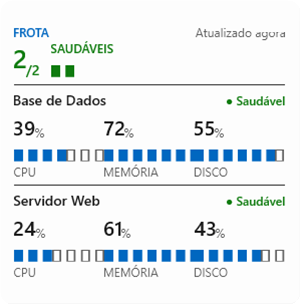
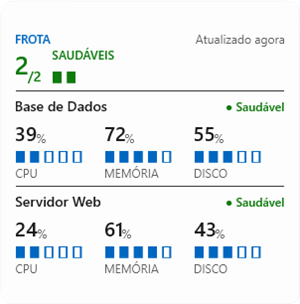
fix: draw the widget meter as one text block so it cannot be truncated
The light-theme contrast fix took three attempts on the real board, and
the first two failed the same way: the host silently clipped the track.
Ten glyph segments rendered as about six. Five segments split across auto
columns were squeezed and cut with an ellipsis. Both passed their tests,
because the tests asserted string lengths rather than what the host draws.

The track is now a single TextBlock holding the whole string, so there
are no columns for the host to squeeze and nothing to truncate. That
costs one colour role for the whole track, so filled and empty are told
apart by shape - solid against outlined - which was already the primary
differentiator and is the one that survives high contrast and colour
vision deficiency. Five segments, measured against the metric column at
the real glyph pitch.

The fleet bar keeps per-health colours, is bounded at eight ticks, and is
omitted rather than truncated above that: the hero fraction and the large
footer still state the totals, so nothing is hidden.

Verified on the user's own Widgets board in all four size and theme
combinations: every declared track draws exactly five segments, lit count
matches the magnitude, and no track is truncated. A filled tick reads
5.58:1 against the card in light, where the old meter read 1.25:1, and
6.39:1 in dark.

The picker screenshots are recaptured from this build. An earlier pair of
attempts had to be discarded because a monitoring cycle had overwritten
[…]

Changed region(s): [[0.03, 0.0888, 0.96, 0.6809], [0.03, 0.7105, 0.96, 0.9178], [0.63, 0.0888, 0.96, 0.1776]]

diff --git a/tests/ServerMonitor.WidgetProvider.Tests/Rendering/WidgetCardRendererTests.cs b/tests/ServerMonitor.WidgetProvider.Tests/Rendering/WidgetCardRendererTests.cs
@@ -358,13 +358,22 @@ public sealed class WidgetCardRendererTests
         Assert.Contains(En.Offline.ToUpperInvariant(), json);
     }
 
-    // ---- M13-QA-6: the meter is glyph runs with FOREGROUND colours, not styled container backgrounds ----
+    // ---- M13-QA-6: the meter is ONE TextBlock of glyphs in a FOREGROUND colour role, not styled
+    // container backgrounds and not per-run columns ----
 
     private const string TickFilled = "\u25AE";
     private const string TickEmpty = "\u25AF";
 
-    private static bool IsTicks(string text, string glyph) =>
-        text.Length > 0 && text.All(c => c.ToString() == glyph);
+    // Any TextBlock made only of tick glyphs, filled and empty mixed.
+    private static bool IsTrack(string text) =>
+        text.Length > 0 && text.All(c => c.ToString() == TickFilled || c.ToString() == TickEmpty);
+
+    private static int CountFilled(string track) => track.Count(c => c.ToString() == TickFilled);
+    private static int CountEmpty(string track) => track.Count(c => c.ToString() == TickEmpty);
+
+    // The per-metric meter tracks: one TextBlock each, mixed glyphs, in the accent role.
+    private static List<string> MeterTracks(JsonElement root) =>
+        TickRuns(root).Where(r => r.Color == "accent" && IsTrack(r.Text)).Select(r => r.Text).ToList();
 
     // Every TextBlock made purely of tick glyphs, with its colour role and subtlety.
     private static List<(string Text, string? Color, bool Subtle)> TickRuns(JsonElement el)
@@ -379,7 +388,7 @@ public sealed class WidgetCardRendererTests
             {
                 if (e.TryGetProperty("type", out var t) && t.GetString() == "TextBlock"
                     && e.TryGetProperty("text", out var tx) && tx.GetString() is { Length: > 0 } text
-                    && (IsTicks(text, TickFilled) || IsTicks(text, TickEmpty)))
+                    && IsTrack(text))
                 {
                     var color = e.TryGetProperty("color", out var c) ? c.GetString() : null;
                     var subtle = e.TryGetProperty("isSubtle", out var sub) && sub.GetBoolean();
@@ -418,63 +427,55 @@ public sealed class WidgetCardRendererTests
         // A critical server must NOT tint its metric meters red: health lives only on the chip and on the
         // fleet bar, which is health-coloured by design.
         var root = AssertValidCard(Render(Read(Server("db", WidgetHealth.Critical)), WidgetSizeHint.Medium).TemplateJson);
-        var runs = TickRuns(root);
 
-        var filledMetric = runs.Where(r => IsTicks(r.Text, TickFilled) && r.Color == "accent").ToList();
-        Assert.Equal(3, filledMetric.Count);
+        Assert.Equal(3, MeterTracks(root).Count);   // three metrics, all in the neutral accent role
 
         // The only health-coloured tick run on the card is the fleet bar.
-        var healthColoured = runs.Where(r => r.Color is "attention" or "warning" or "good").ToList();
+        var healthColoured = TickRuns(root).Where(r => r.Color is "attention" or "warning" or "good").ToList();
         Assert.Single(healthColoured);
         Assert.Equal("attention", healthColoured[0].Color);
     }
 
     [Fact]
-    public void Empty_track_is_outlined_and_subtle_so_it_does_not_rely_on_colour_alone()
+    public void Filled_and_empty_are_told_apart_by_shape_not_by_colour()
     {
-        var root = AssertValidCard(Render(Read(Server("db", WidgetHealth.Healthy, cpu: 30, mem: 30, disk: 30)),
+        // The track is ONE block in ONE colour role, so the states cannot rely on colour: a filled tick is
+        // a solid glyph and an empty one is outlined. That difference survives High Contrast and colour
+        // vision deficiency, and it is what makes a single-colour track legible.
+        var root = AssertValidCard(Render(Read(Server("db", WidgetHealth.Healthy, cpu: 60, mem: 60, disk: 60)),
             WidgetSizeHint.Medium).TemplateJson);
-        var empty = TickRuns(root).Where(r => IsTicks(r.Text, TickEmpty)).ToList();
 
-        Assert.NotEmpty(empty);
-        foreach (var run in empty)
+        var tracks = MeterTracks(root);
+        Assert.Equal(3, tracks.Count);
+        foreach (var track in tracks)
         {
-            Assert.True(run.Subtle);   // muted...
-            Assert.Null(run.Color);    // ...in the default foreground, never a health or accent role
+            Assert.Equal(3, CountFilled(track));
+            Assert.Equal(MeasuredMeterSegments - 3, CountEmpty(track));
+            Assert.NotEqual(TickFilled[0], TickEmpty[0]);   // the two states are different glyphs
         }
     }
 
     [Theory]
     [InlineData(0, 0)]
     [InlineData(1, 1)]     // any non-zero magnitude lights at least one tick
-    [InlineData(30, 3)]
-    [InlineData(55, 6)]    // ceil
-    [InlineData(100, 10)]
+    [InlineData(20, 1)]
+    [InlineData(30, 2)]    // ceil
+    [InlineData(60, 3)]
+    [InlineData(100, 5)]
     public void Filled_tick_count_tracks_magnitude(int percent, int expectedFilled)
     {
         var root = AssertValidCard(Render(Read(
             Server("db", WidgetHealth.Healthy, cpu: percent, mem: percent, disk: percent)),
             WidgetSizeHint.Medium).TemplateJson);
 
-        var runs = TickRuns(root);
-        var filled = runs.Where(r => r.Color == "accent").ToList();
-        var empty = runs.Where(r => IsTicks(r.Text, TickEmpty)).ToList();
-
-        if (expectedFilled == 0)
+        var tracks = MeterTracks(root);
+        Assert.Equal(3, tracks.Count);
+        foreach (var track in tracks)
         {
-            Assert.Empty(filled);
-        }
-        else
-        {
-            Assert.Equal(3, filled.Count);
-            Assert.All(filled, r => Assert.Equal(expectedFilled, r.Text.Length));
-        }
-
-        // Filled + empty always spans the whole track: the bar never shrinks.
-        if (expectedFilled < 10)
-        {
-            Assert.Equal(3, empty.Count);
-            Assert.All(empty, r => Assert.Equal(10 - expectedFilled, r.Text.Length));
+            Assert.Equal(expectedFilled, CountFilled(track));
+            Assert.Equal(MeasuredMeterSegments - expectedFilled, CountEmpty(track));
+            // The declared track is always drawn whole - never shortened, never truncated.
+            Assert.Equal(MeasuredMeterSegments, track.Length);
         }
     }
 
@@ -485,11 +486,87 @@ public sealed class WidgetCardRendererTests
             Server("db", WidgetHealth.Healthy, cpu: null, mem: null, disk: null)),
             WidgetSizeHint.Medium).TemplateJson);
 
-        var runs = TickRuns(root);
-        Assert.DoesNotContain(runs, r => r.Color == "accent");
-        Assert.Equal(3, runs.Count(r => IsTicks(r.Text, TickEmpty) && r.Text.Length == 10));
+        var tracks = MeterTracks(root);
+        Assert.Equal(3, tracks.Count);
+        // An unknown metric draws the full track with nothing lit - it never invents a zero-length bar.
+        Assert.All(tracks, t => Assert.Equal(MeasuredMeterSegments, t.Length));
+        Assert.All(tracks, t => Assert.Equal(0, CountFilled(t)));
         // And the number itself is the unknown placeholder, not "0".
         Assert.Contains(En.MetricUnknown, AllTexts(root));
+    }
+
+    // ---- M13-QA-6: INTEGRITY. A legible but truncated instrument is worse than an illegible one - it
+    // answers confidently and wrongly. These capacities were MEASURED on the real board and are written as
+    // literals on purpose. It took three attempts to get here: 10 glyph segments were clipped to about 6;
+    // 5 segments split across auto columns were cut with an ellipsis; only one TextBlock holding the whole
+    // track survives, because there is then nothing for the host to squeeze. Every earlier attempt passed
+    // its tests, because the tests checked string lengths rather than what the host draws. ----
+
+    public const int MeasuredMeterSegments = 5;   // fits a ~90px metric column at the measured ~13px pitch
+    public const int MeasuredMaxFleetTicks = 8;   // fits the hero row beside the fraction and its label
+
+    [Theory]
+    [InlineData(0)]
+    [InlineData(1)]
+    [InlineData(37)]
+    [InlineData(99)]
+    [InlineData(100)]
+    public void Meter_always_draws_every_segment_it_declares(int percent)
+    {
+        foreach (var size in new[] { WidgetSizeHint.Medium, WidgetSizeHint.Large })
+        {
+            var root = AssertValidCard(Render(Read(
+                Server("db", WidgetHealth.Healthy, cpu: percent, mem: percent, disk: percent)), size).TemplateJson);
+
+            // Per metric cell: filled + empty must total the declared track, exactly. Three metrics per row.
+            var tracks = MeterTracks(root);
+            var rows = ServerBlocks(root).Count;
+            Assert.Equal(3 * rows, tracks.Count);
+            Assert.All(tracks, t => Assert.Equal(MeasuredMeterSegments, t.Length));
+        }
+    }
+
+    [Fact]
+    public void Meter_segment_count_matches_the_capacity_measured_on_the_board()
+    {
+        // The production constant must equal what was measured, not the other way round.
+        var root = AssertValidCard(Render(Read(Server("db", WidgetHealth.Healthy, cpu: 0, mem: 0, disk: 0)),
+            WidgetSizeHint.Medium).TemplateJson);
+        var tracks = MeterTracks(root);
+        Assert.Equal(3, tracks.Count);
+        Assert.All(tracks, t => Assert.Equal(MeasuredMeterSegments, t.Length));
+        Assert.All(tracks, t => Assert.Equal(0, CountFilled(t)));
+    }
+
+    [Theory]
+    [InlineData(1)]
+    [InlineData(4)]
+    [InlineData(8)]
+    public void Fleet_bar_is_drawn_within_the_tick_budget(int servers)
+    {
+        var fleet = Enumerable.Range(0, servers).Select(i => Server($"s{i:D2}", WidgetHealth.Healthy)).ToArray();
+        var root = AssertValidCard(Render(Read(fleet), WidgetSizeHint.Small).TemplateJson);
+
+        // Small renders no rows, so every tick run belongs to the fleet bar.
+        Assert.Equal(servers, TickRuns(root).Sum(r => r.Text.Length));
+    }
+
+    [Theory]
+    [InlineData(9)]
+    [InlineData(40)]
+    public void Fleet_bar_is_omitted_rather_than_truncated_above_the_budget(int servers)
+    {
+        var fleet = Enumerable.Range(0, servers).Select(i => Server($"s{i:D2}", WidgetHealth.Healthy)).ToArray();
+        var json = Render(Read(fleet), WidgetSizeHint.Small).TemplateJson;
+        var root = AssertValidCard(json);
+
+        Assert.True(servers > MeasuredMaxFleetTicks);
+        // No partial bar - a bar showing 8 of 40 would be a confident lie about the fleet.
+        Assert.Empty(TickRuns(root));
+        // ...and no JSON null left where it used to be.
+        Assert.DoesNotContain("null", json.Replace("\"header\":null", string.Empty), StringComparison.Ordinal);
+        // The hero still states the whole truth.
+        Assert.Contains($"{servers}", AllTexts(root));
     }
 
     [Fact]

diff --git a/src/ServerMonitor.WidgetProvider/Rendering/WidgetCardRenderer.cs b/src/ServerMonitor.WidgetProvider/Rendering/WidgetCardRenderer.cs
@@ -16,8 +16,8 @@ public sealed record WidgetCard(string TemplateJson, string DataJson);
 /// language (Fable design, refined against the real host): a caps accent kicker, an oversized numeric hero
 /// with a small trailing unit, and full-bleed segmented tick meters — colour used only for meaning, all
 /// top-aligned. Uses ONLY widget-supported elements (<c>TextBlock</c>, <c>ColumnSet</c>/<c>Column</c>,
-/// <c>Container</c>) plus container <c>style</c> backgrounds (with fixed-pixel gap columns) for the meters —
-/// no images/HTML/SVG. <c>"header": null</c> lets the composition own the top region (that strip is not
+/// <c>Container</c>) - the meters are TextBlock GLYPH runs, not styled container backgrounds, because only
+/// foreground colours resolve usefully per theme in the host's light config (M13-QA-6) - no images/HTML/SVG. <c>"header": null</c> lets the composition own the top region (that strip is not
 /// clickable, so the body carries the <c>selectAction</c> deep-links). Health is always a text label AND a
 /// colour (§18); the accent role is used ONLY for the fleet kicker (never for health, §4) - and note that
 /// Adaptive Cards "accent" is an ENUM the host resolves to the SYSTEM accent, not our brand #1846E1, so the
@@ -35,7 +35,19 @@ public static class WidgetCardRenderer
     };
 
     private const string Dot = "●";           // status glyph
-    private const int MeterSegments = 10;      // ticks per metric meter
+    // MEASURED on the real board, not chosen: a Default-size tick glyph has a ~13px advance and a metric
+    // column on the 300px-wide card is ~90px, so only ~6 ticks fit. The first glyph attempt declared 10 and
+    // the host silently clipped the rest, which is worse than the contrast bug it replaced - a truncated
+    // instrument answers confidently and wrongly (Prism). Five ticks need ~65px and leave real margin, and
+    // 20% per tick still reads as magnitude beside the exact percentage printed right above it.
+    // Changing this REQUIRES re-measuring on the board.
+    private const int MeterSegments = 5;       // ticks per metric meter - see note above
+
+    // The fleet bar draws one tick per server, so it is unbounded by nature. Same pitch, and it shares the
+    // hero row with the fraction and its label, so it gets a smaller budget. Above this the bar is omitted
+    // rather than truncated: the hero "N/N" and, on Large, the fleet-summary footer still state the whole
+    // truth, so nothing is hidden - only the glanceable form degrades, and it degrades honestly.
+    private const int MaxFleetTicks = 8;
 
     // M13-QA-6. The meters used Container BACKGROUND styles ("accent" filled, "emphasis" empty). Container
     // styles are the one part of the palette the host does not resolve usefully per theme: in its light
@@ -49,8 +61,8 @@ public static class WidgetCardRenderer
     // the distinction does not rest on colour alone and survives High Contrast.
     private const string TickFilled = "▮";      // black vertical rectangle
     private const string TickEmpty = "▯";       // white (outlined) vertical rectangle
-    private const string MeterSize = "Default";     // metric meter glyph size
-    private const string FleetSize = "Default";     // fleet-bar glyph size
+    // ONE size everywhere: pitch is then a single measured quantity rather than a per-size unknown.
+    private const string TickSize = "Default";
 
     public static WidgetCard Render(WidgetViewModel vm)
     {
@@ -88,15 +100,22 @@ public static class WidgetCardRenderer
     private static JsonArray SmallBody(WidgetViewModel vm)
     {
         var (number, unit) = SplitFraction(vm.HeroValue);
-        return new JsonArray
+        var body = new JsonArray
         {
             Text(vm.FleetKicker, size: "Small", weight: "Bolder", color: "accent"),
             NumberUnit(number, unit, "ExtraLarge", "Medium", vm.OverallHealthColor, unitSubtle: false),
             Text(vm.HeroLabel.ToUpperInvariant(), size: "Small", weight: "Bolder", color: vm.OverallHealthColor,
-                spacingNone: true),
-            FleetBar(vm, FleetSize),
-            Freshness(vm)
+                spacingNone: true)
         };
+
+        // Omitted above the tick budget - never added as a JSON null.
+        if (FleetBar(vm) is { } bar)
+        {
+            body.Add(bar);
+        }
+
+        body.Add(Freshness(vm));
+        return body;
     }
 
     // ---- Medium / Large: hero header (kicker + freshness, then fraction + label + fleet bar) then blocks.
@@ -186,13 +205,21 @@ public static class WidgetCardRenderer
                 {
                     Text(unit, size: "Medium", weight: "Bolder", color: vm.OverallHealthColor, spacingNone: true)
                 }, verticalAlignment: "Bottom", spacingNone: true),
-                Column("stretch", new JsonArray
-                {
-                    labelRow,
-                    FleetBar(vm, large ? "Medium" : FleetSize)
-                }, verticalAlignment: "Center", spacing: "Medium")
+                Column("stretch", HeroLabelColumn(vm, labelRow), verticalAlignment: "Center", spacing: "Medium")
             }
         };
+    }
+
+    // The hero's label column, plus the fleet bar when it fits within the tick budget.
+    private static JsonArray HeroLabelColumn(WidgetViewModel vm, JsonObject labelRow)
+    {
+        var items = new JsonArray { labelRow };
+        if (FleetBar(vm) is { } bar)
+        {
+            items.Add(bar);
+        }
+
+        return items;
     }
 
     // Large-only fleet-summary footer: four stat tiles from the health counts (only non-zero severities
@@ -278,7 +305,7 @@ public static class WidgetCardRenderer
         var items = new JsonArray
         {
             NumberUnit(number, unit, "Large", "Small", color: null, unitSubtle: true),
-            Meter(fraction, large ? "Medium" : MeterSize),
+            Meter(fraction),
             Text(label.ToUpperInvariant(), size: "Small", subtle: true, spacingNone: true)
         };
 
@@ -329,36 +356,44 @@ public static class WidgetCardRenderer
     // only on the chip). Fill rule: ceil(pct/step), min 1 lit tick when pct > 0. Unknown (fraction < 0) =
     // all-empty track (§19). See the TickFilled/TickEmpty note for why these are glyphs and not styled
     // container backgrounds (M13-QA-6).
-    private static JsonObject Meter(double fraction, string size)
+    // ONE TextBlock, not one column per colour run. Splitting the track across auto columns let the host
+    // squeeze each column and cut the glyphs with an ellipsis - the meter rendered as "▮▯ ▯..." on the real
+    // board. A single block lays out as ordinary text and cannot be split, so the whole track always draws.
+    // The cost is that the track carries ONE colour role, so filled and empty are told apart by SHAPE -
+    // solid vs outlined - which was already the primary differentiator and is the one that survives High
+    // Contrast and colour-vision deficiency.
+    private static JsonObject Meter(double fraction)
     {
         var filled = FilledSegments(fraction, MeterSegments);
-        return GlyphBar(
-            new[]
-            {
-                (Repeat(TickFilled, filled), "accent", false),
-                (Repeat(TickEmpty, MeterSegments - filled), (string?)null, true)
-            },
-            size);
+        var track = Repeat(TickFilled, filled) + Repeat(TickEmpty, MeterSegments - filled);
+        return Text(track, size: TickSize, weight: "Bolder", color: "accent", spacingNone: true);
     }
 
     // Fleet bar: one tick per server, worst-first, in health FOREGROUND colours. The fleet bar IS
     // health-coloured by design, unlike the metric meters - but it had the same light-theme failure for the
     // same reason, so it moves to glyphs too. Unknown has no health colour and uses the subtle foreground.
-    private static JsonObject FleetBar(WidgetViewModel vm, string size) => GlyphBar(
-        new[]
+    private static JsonObject? FleetBar(WidgetViewModel vm)
+    {
+        // Omit rather than truncate above the measured budget - a bar showing 8 of 20 servers would be a
+        // confident lie about the fleet. The hero fraction and the Large footer keep stating the totals.
+        if (vm.TotalServers > MaxFleetTicks)
+        {
+            return null;
+        }
+
+        return GlyphBar(new[]
         {
             (Repeat(TickFilled, vm.CriticalCount + vm.OfflineCount), "attention", false),
             (Repeat(TickFilled, vm.WarningCount), "warning", false),
             (Repeat(TickFilled, vm.UnknownCount), (string?)null, true),
             (Repeat(TickFilled, vm.HealthyCount), "good", false)
-        },
-        size);
+        });
+    }
 
-    // A row of tick glyphs built from coloured runs. Each run is its own TextBlock in an auto column with
-    // no spacing, so the runs read as one continuous bar while each keeps its own foreground colour - which
-    // is the whole point: foreground colours are the part of the palette the host resolves correctly in
-    // both themes.
-    private static JsonObject GlyphBar(IEnumerable<(string Text, string? Color, bool Subtle)> runs, string size)
+    // The fleet bar genuinely needs one colour per health, so it keeps coloured runs in adjacent auto
+    // columns. It can afford to: it is bounded to MaxFleetTicks and sits in the wide hero region, where the
+    // per-metric meters had only a third of the card. Verified on the real board at the bound.
+    private static JsonObject GlyphBar(IEnumerable<(string Text, string? Color, bool Subtle)> runs)
     {
         var columns = new JsonArray();
         foreach (var (text, color, subtle) in runs)
@@ -370,7 +405,7 @@ public static class WidgetCardRenderer
 
             columns.Add(Column("auto", new JsonArray
             {
-                Text(text, size: size, weight: "Bolder", color: color, subtle: subtle, spacingNone: true)
+                Text(text, size: TickSize, weight: "Bolder", color: color, subtle: subtle, spacingNone: true)
             }, spacingNone: true));
         }
 
